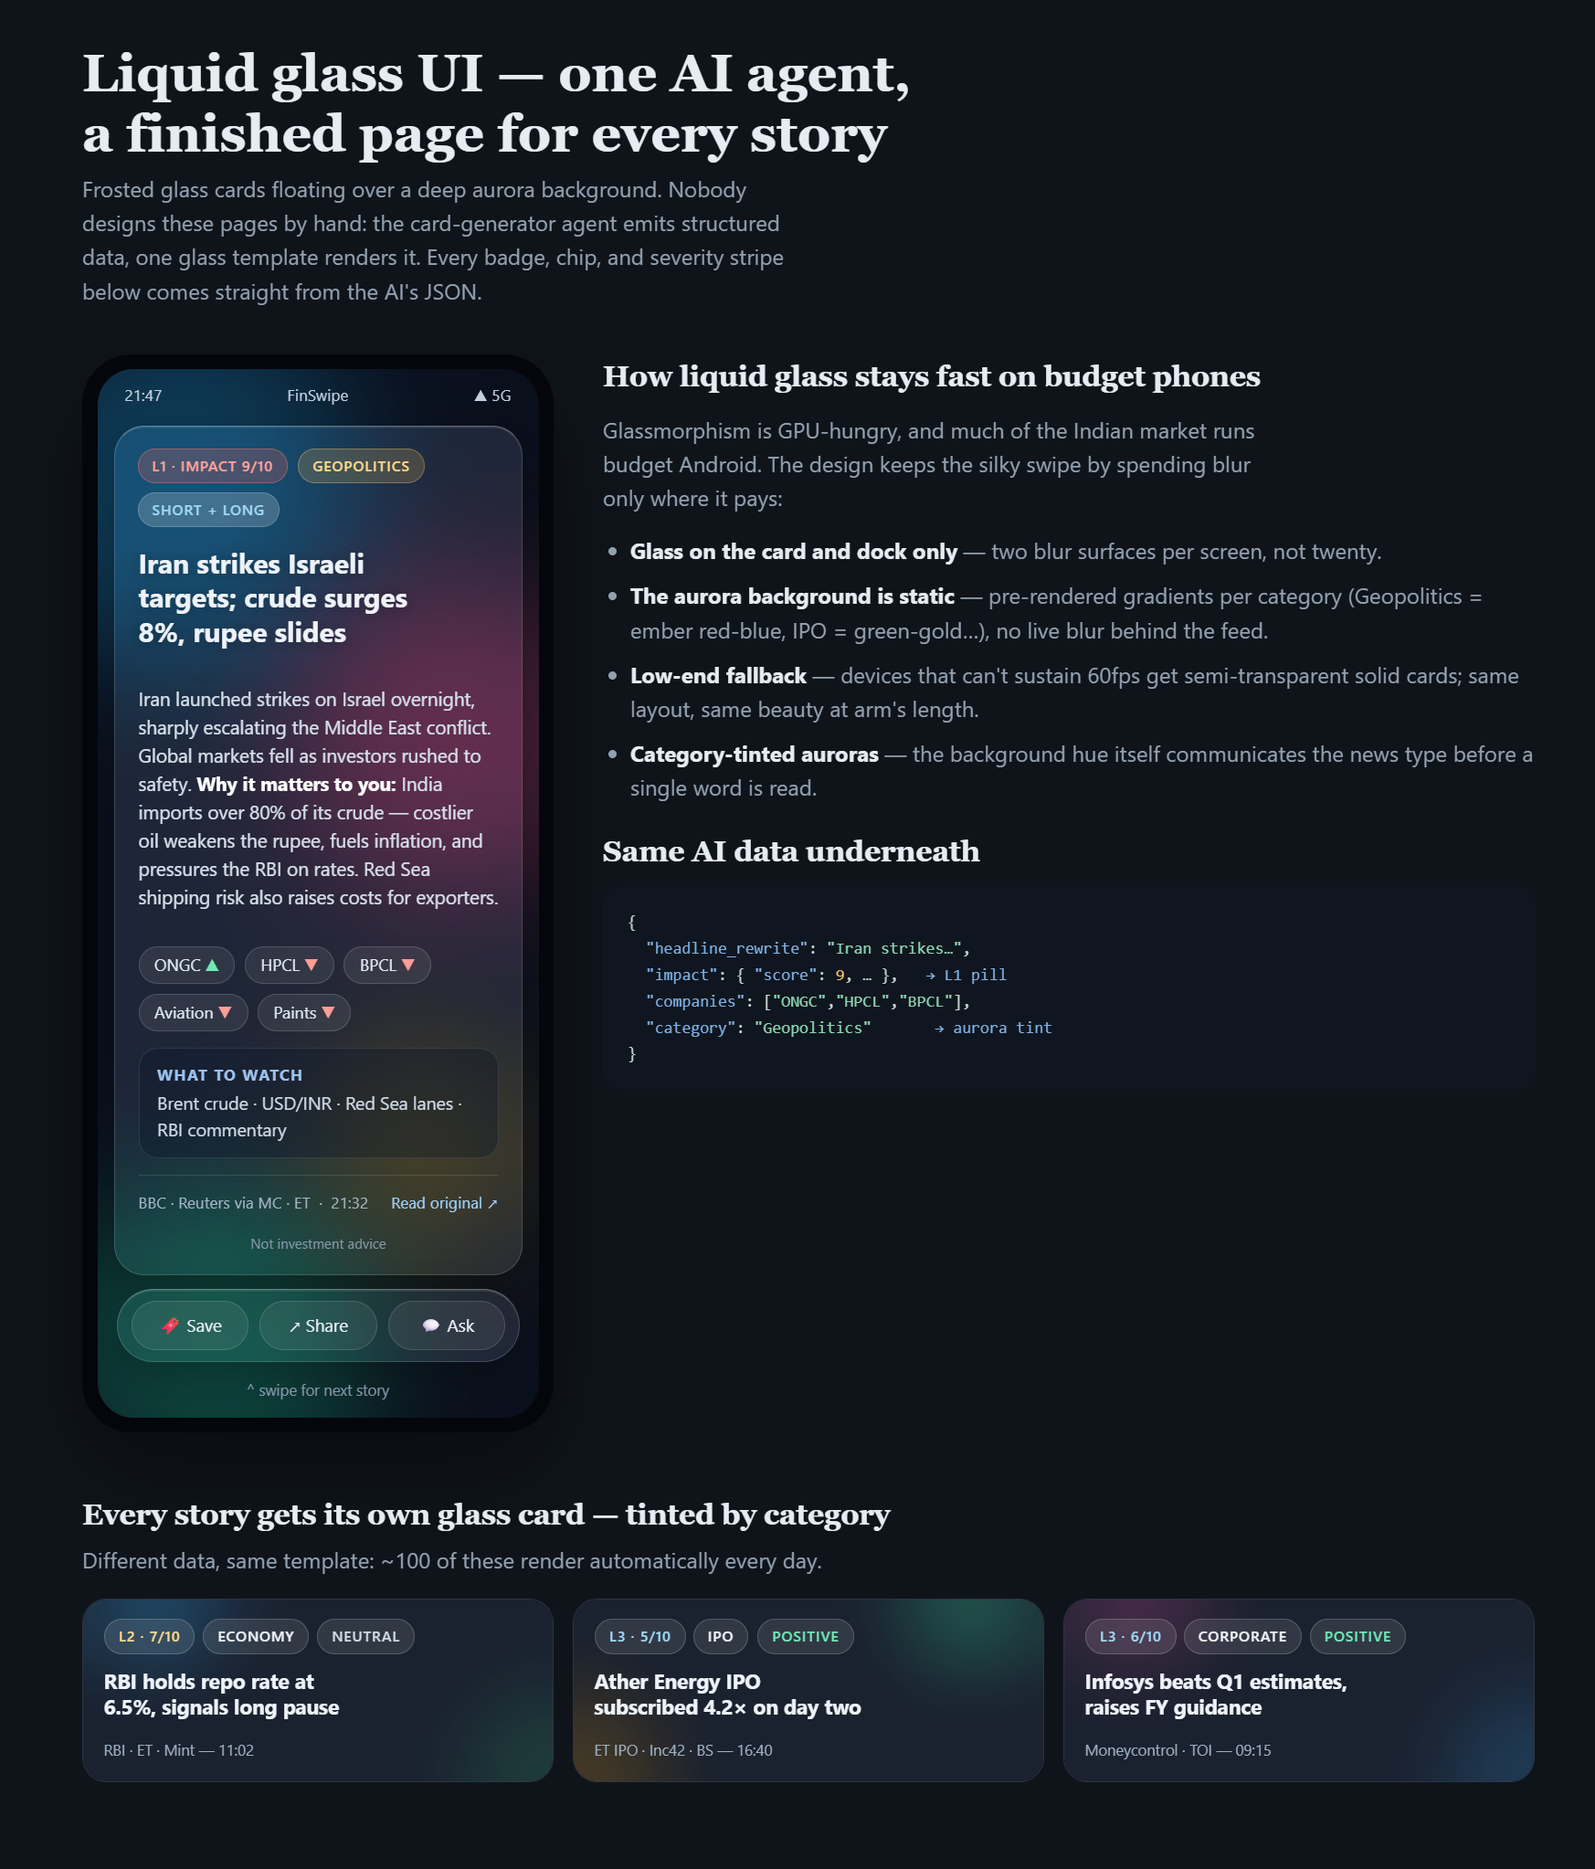
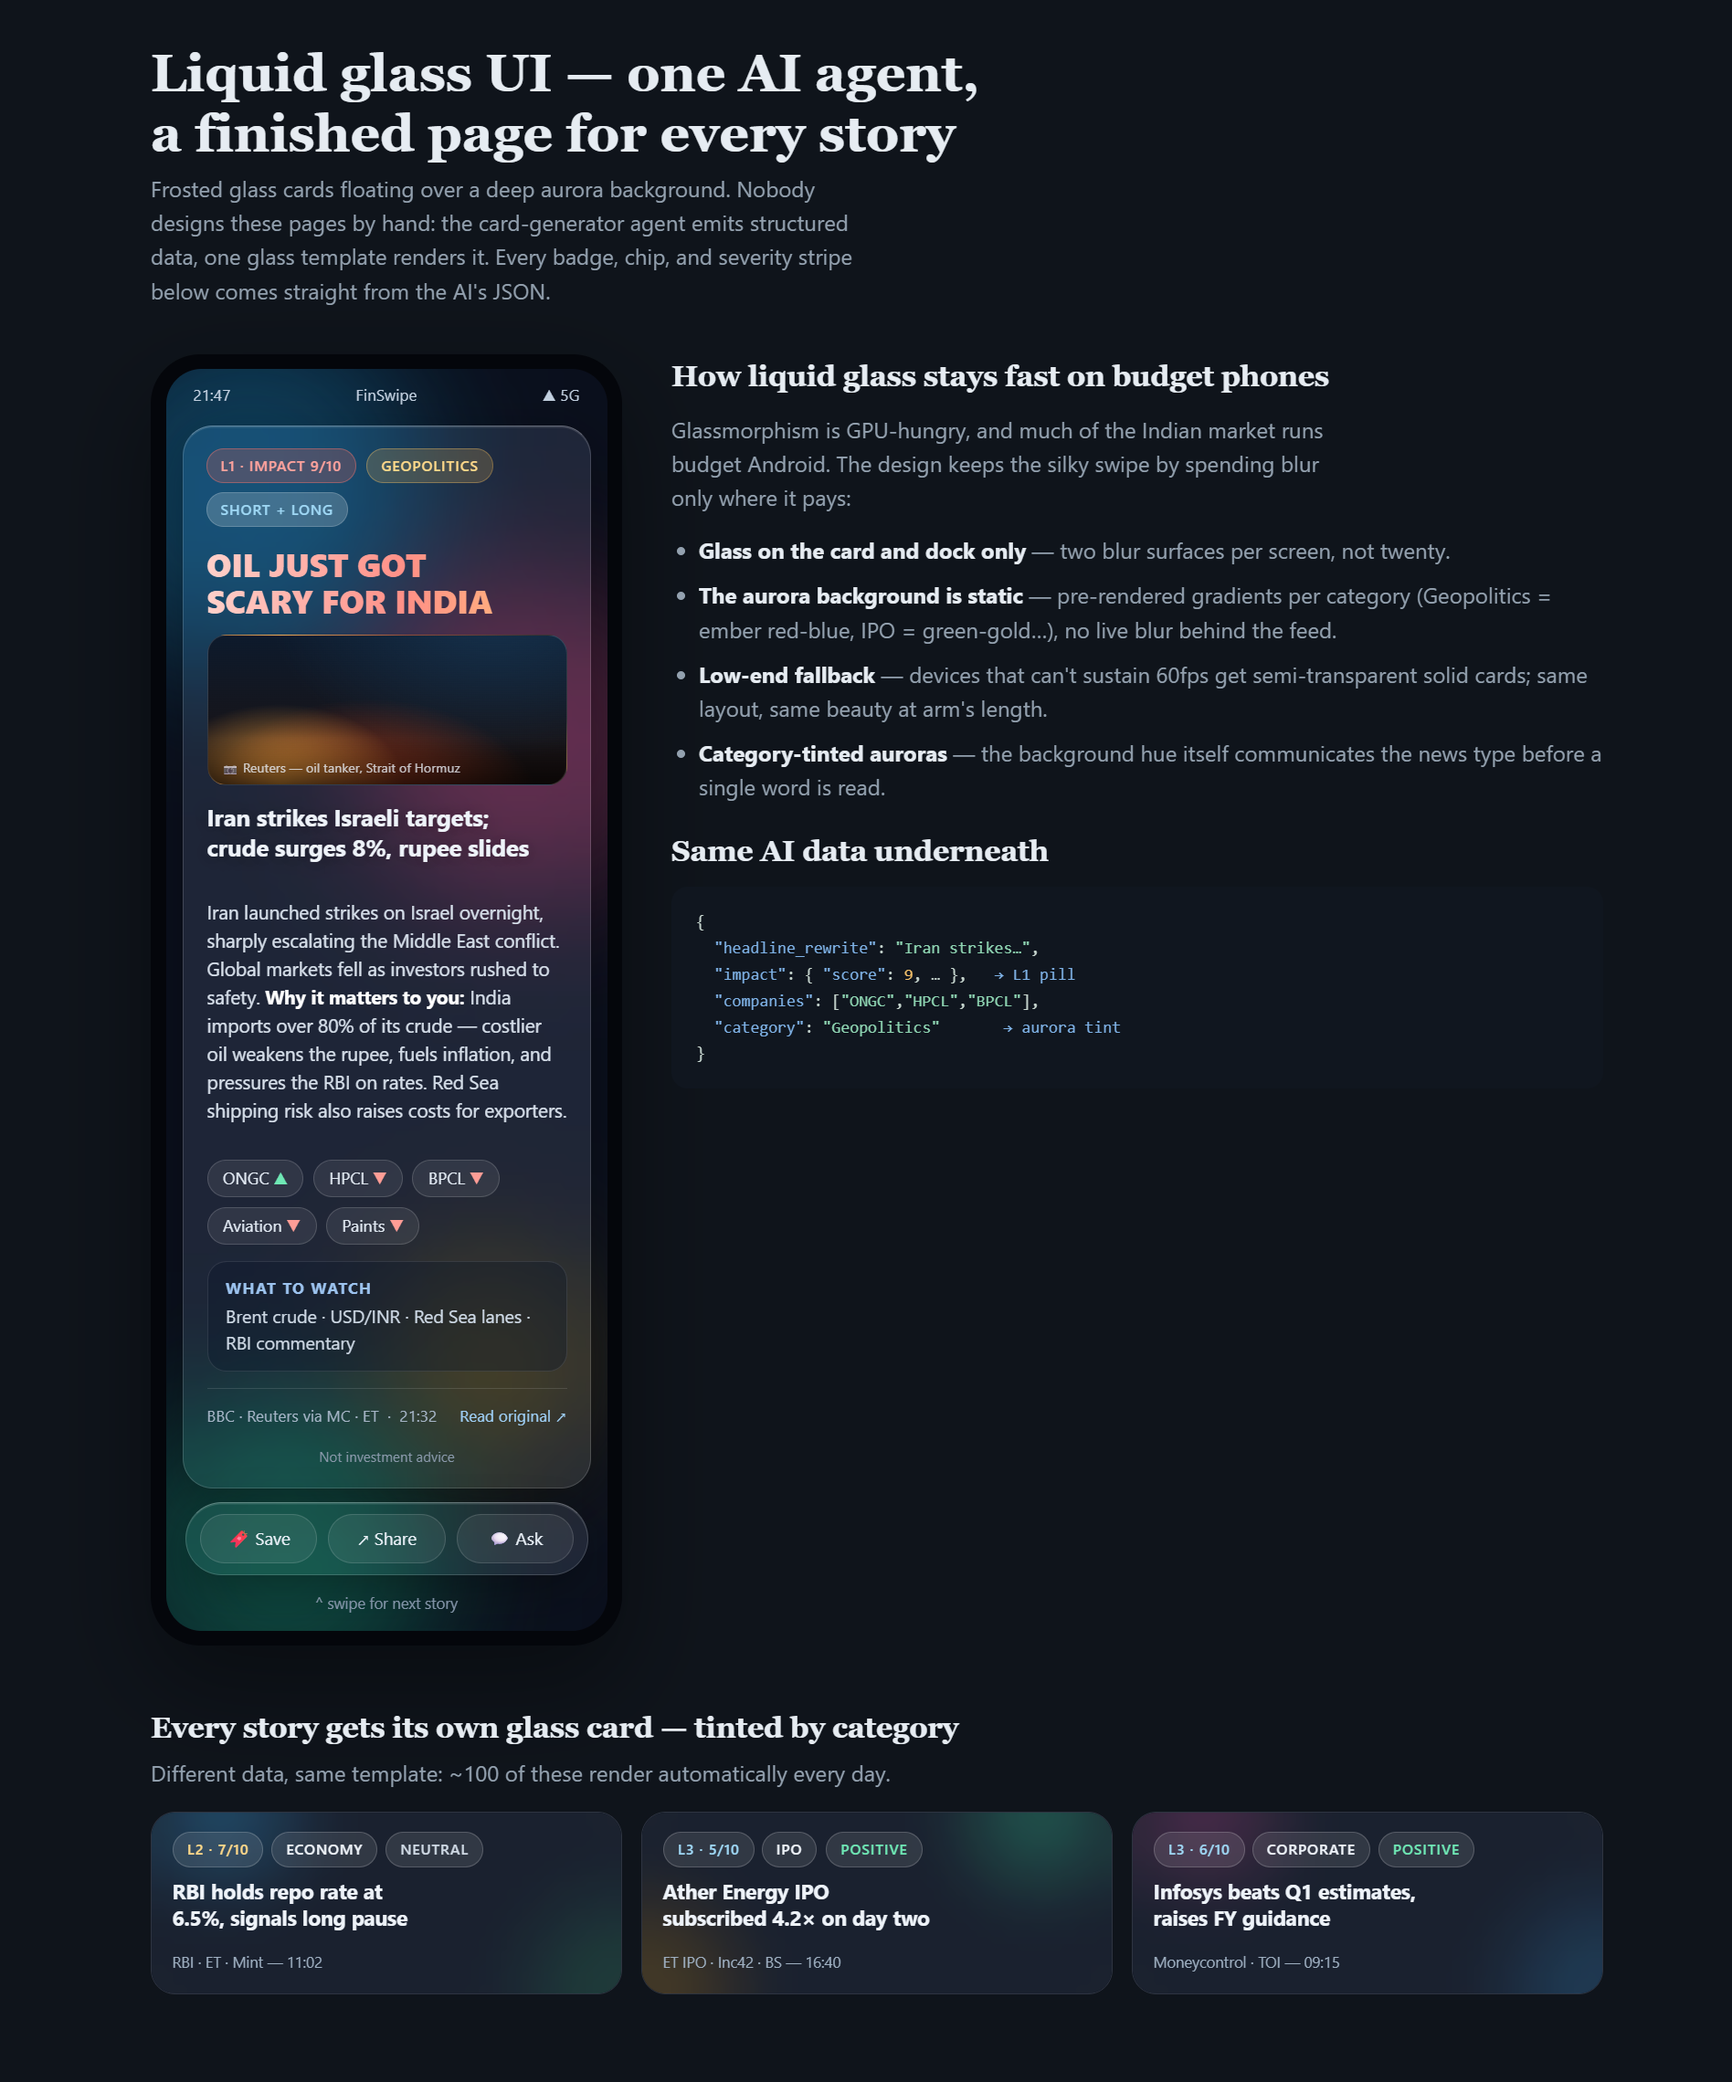
Add billboard hook + story images to card design
- Spec: three-level card read (hook -> headline -> summary); og:image
  with attribution, category aurora as fallback visual
- Plan: hook field through models/prompt/DB; enrichment now also
  extracts og:image; anti-clickbait rule in the AI prompt
- Mockup: hook line + photo block rendered

diff --git a/docs/mockups/finswipe-card-mockup.html b/docs/mockups/finswipe-card-mockup.html
@@ -43,7 +43,16 @@
   .p-cat{color:#ffd98a; border-color:rgba(255,200,100,.35); background:rgba(160,110,20,.20)}
   .p-neg{color:#ffa39d}
   .p-horizon{color:#9fd8f5}
-  .headline{font-size:20px; font-weight:700; line-height:1.25; margin:2px 0 0; text-wrap:balance; text-shadow:0 1px 12px rgba(0,0,0,.35)}
+  .hook{font-size:24px; font-weight:800; line-height:1.1; letter-spacing:-.01em; text-transform:uppercase; margin:2px 0 0;
+        background:linear-gradient(92deg,#ffd1cb,#ff8f86 55%,#ffc37a); -webkit-background-clip:text; background-clip:text; color:transparent; text-wrap:balance}
+  .photo{position:relative; border-radius:14px; height:110px; overflow:hidden; border:1px solid rgba(255,255,255,.14);
+         background:radial-gradient(140px 90px at 20% 100%, #f2a03d, transparent 65%),
+                    radial-gradient(180px 120px at 45% 120%, #b5401f, transparent 70%),
+                    radial-gradient(220px 150px at 80% -20%, #16324d, transparent 75%),
+                    linear-gradient(180deg,#0d1a2c,#1c1210)}
+  .photo::after{content:"📷 Reuters — oil tanker, Strait of Hormuz"; position:absolute; left:0; right:0; bottom:0;
+                font-size:9.5px; color:#e8edf5cc; padding:14px 10px 5px; background:linear-gradient(transparent,rgba(0,0,0,.65))}
+  .headline{font-size:17px; font-weight:700; line-height:1.3; margin:0; text-wrap:balance; text-shadow:0 1px 12px rgba(0,0,0,.35)}
   .summary{color:#d7e0eb; font-size:13.8px}
   .summary b{color:#fff}
   .chips{display:flex; flex-wrap:wrap; gap:7px}
@@ -105,6 +114,8 @@
               <span class="pill p-cat">Geopolitics</span>
               <span class="pill p-horizon">Short + Long</span>
             </div>
+            <div class="hook">Oil just got scary for India</div>
+            <div class="photo"></div>
             <div class="headline">Iran strikes Israeli targets; crude surges 8%, rupee slides</div>
             <p class="summary">Iran launched strikes on Israel overnight, sharply escalating the Middle East conflict. Global markets fell as investors rushed to safety. <b>Why it matters to you:</b> India imports over 80% of its crude — costlier oil weakens the rupee, fuels inflation, and pressures the RBI on rates. Red Sea shipping risk also raises costs for exporters.</p>
             <div class="chips">

diff --git a/docs/superpowers/plans/2026-07-25-m1-news-pipeline.md b/docs/superpowers/plans/2026-07-25-m1-news-pipeline.md
@@ -101,6 +101,7 @@ create table stories (
   url              text not null,
   url_hash         text not null unique,
   cluster_id       uuid not null,
+  hook             text,               -- billboard line, <=8 words, factual
   headline         text not null,
   summary          text,
   impact_direction text check (impact_direction in ('positive','negative','mixed','neutral')),
@@ -331,6 +332,7 @@ from finswipe.models import StoryCard, Impact, CompanyRef, FeedItem
 
 def valid_card_dict():
     return {
+        "hook": "RBI stands still, markets exhale",
         "headline_rewrite": "RBI holds repo rate at 6.5%",
         "summary": "What happened... why... who is affected... why you should care.",
         "impact": {"direction": "neutral", "strength": 2, "horizon": "short_term", "score": 6},
@@ -404,6 +406,7 @@ class Impact(BaseModel):
 
 
 class StoryCard(BaseModel):
+    hook: str
     headline_rewrite: str
     summary: str
     impact: Impact
@@ -728,8 +731,8 @@ git commit -m "feat: url hashing and title-similarity clustering"
 **Interfaces:**
 - Consumes: `FeedItem` (Task 2), `settings` (Task 1).
 - Produces:
-  - `needs_enrichment(item: FeedItem) -> bool` — True when `len(item.summary) < 300` and URL is not a Google News redirect (`news.google.com` links block scraping — skip those).
-  - `enrich(item: FeedItem) -> FeedItem` — returns a copy with `summary` replaced by extracted article text (capped at 4000 chars) when extraction succeeds; original item unchanged on any failure. Never raises.
+  - `needs_enrichment(item: FeedItem) -> bool` — True when the summary is thin (`< 300` chars) **or** the item has no image, unless the URL is a Google News redirect (`news.google.com` blocks scraping — skip those).
+  - `enrich(item: FeedItem) -> FeedItem` — fetches the article page once; returns a copy with `summary` replaced by extracted text (capped 4000 chars) when longer, and `image_url` filled from the page's `og:image` meta tag when the item had none. Original item unchanged on any failure. Never raises.
 
 - [ ] **Step 1: Write the failing tests**
 
@@ -737,19 +740,25 @@ git commit -m "feat: url hashing and title-similarity clustering"
 ```python
 from unittest.mock import patch
 
-from finswipe.extract import needs_enrichment, enrich
+from finswipe.extract import needs_enrichment, enrich, _og_image
 from finswipe.models import FeedItem
 
 
-def make_item(summary: str, url: str = "https://example.com/story") -> FeedItem:
-    return FeedItem(source_id=1, source_name="ET", title="T", url=url, summary=summary)
+def make_item(summary: str, url: str = "https://example.com/story",
+              image_url: str | None = "https://example.com/i.jpg") -> FeedItem:
+    return FeedItem(source_id=1, source_name="ET", title="T", url=url,
+                    summary=summary, image_url=image_url)
 
 
 def test_needs_enrichment_when_summary_thin():
     assert needs_enrichment(make_item("short")) is True
 
 
-def test_no_enrichment_when_summary_rich():
+def test_needs_enrichment_when_image_missing():
+    assert needs_enrichment(make_item("x" * 400, image_url=None)) is True
+
+
+def test_no_enrichment_when_rich_and_has_image():
     assert needs_enrichment(make_item("x" * 400)) is False
 
 
@@ -758,17 +767,26 @@ def test_no_enrichment_for_google_news_links():
     assert needs_enrichment(item) is False
 
 
-def test_enrich_replaces_summary_on_success():
-    item = make_item("short")
-    with patch("finswipe.extract._download_and_extract", return_value="Full article text " * 30):
+def test_og_image_extracts_meta_tag():
+    html = '<head><meta property="og:image" content="https://cdn.example.com/pic.jpg" /></head>'
+    assert _og_image(html) == "https://cdn.example.com/pic.jpg"
+    assert _og_image("<head></head>") is None
+
+
+def test_enrich_fills_summary_and_image():
+    item = make_item("short", image_url=None)
+    html = '<meta property="og:image" content="https://cdn.example.com/pic.jpg">'
+    with patch("finswipe.extract._download", return_value=html), \
+         patch("finswipe.extract.trafilatura") as t:
+        t.extract.return_value = "Full article text " * 30
         out = enrich(item)
     assert len(out.summary) > 300
-    assert out.title == item.title
+    assert out.image_url == "https://cdn.example.com/pic.jpg"
 
 
 def test_enrich_keeps_original_on_failure():
     item = make_item("short")
-    with patch("finswipe.extract._download_and_extract", return_value=None):
+    with patch("finswipe.extract._download", return_value=None):
         out = enrich(item)
     assert out.summary == "short"
 ```
@@ -782,6 +800,7 @@ Run: `pytest tests/test_extract.py -v` — Expected: FAIL (no module)
 `pipeline/src/finswipe/extract.py`:
 ```python
 import logging
+import re
 
 import httpx
 import trafilatura
@@ -792,30 +811,50 @@ from finswipe.models import FeedItem
 log = logging.getLogger(__name__)
 MIN_RICH_SUMMARY = 300
 MAX_TEXT_CHARS = 4000
+_OG_IMAGE_RE = re.compile(
+    r'<meta[^>]+property=["\']og:image["\'][^>]+content=["\']([^"\']+)["\']', re.I)
+_OG_IMAGE_RE_REV = re.compile(
+    r'<meta[^>]+content=["\']([^"\']+)["\'][^>]+property=["\']og:image["\']', re.I)
 
 
 def needs_enrichment(item: FeedItem) -> bool:
     if "news.google.com" in item.url:
         return False
-    return len(item.summary) < MIN_RICH_SUMMARY
+    return len(item.summary) < MIN_RICH_SUMMARY or not item.image_url
 
 
-def _download_and_extract(url: str) -> str | None:
+def _download(url: str) -> str | None:
     try:
         resp = httpx.get(url, headers={"User-Agent": settings.user_agent},
                          timeout=settings.fetch_timeout, follow_redirects=True)
         resp.raise_for_status()
-        return trafilatura.extract(resp.text, include_comments=False)
+        return resp.text
     except Exception as exc:
-        log.info("article extraction failed for %s: %s", url, exc)
+        log.info("article download failed for %s: %s", url, exc)
         return None
 
 
+def _og_image(html: str) -> str | None:
+    m = _OG_IMAGE_RE.search(html) or _OG_IMAGE_RE_REV.search(html)
+    return m.group(1) if m else None
+
+
 def enrich(item: FeedItem) -> FeedItem:
-    text = _download_and_extract(item.url)
+    html = _download(item.url)
+    if not html:
+        return item
+    updates = {}
+    try:
+        text = trafilatura.extract(html, include_comments=False)
+    except Exception:
+        text = None
     if text and len(text) > len(item.summary):
-        return item.model_copy(update={"summary": text[:MAX_TEXT_CHARS]})
-    return item
+        updates["summary"] = text[:MAX_TEXT_CHARS]
+    if not item.image_url:
+        img = _og_image(html)
+        if img:
+            updates["image_url"] = img
+    return item.model_copy(update=updates) if updates else item
 ```
 
 - [ ] **Step 4: Run tests to verify they pass**
@@ -864,6 +903,7 @@ def make_item() -> FeedItem:
 
 def make_card() -> StoryCard:
     return StoryCard.model_validate({
+        "hook": "RBI stands still",
         "headline_rewrite": "RBI holds repo rate at 6.5%",
         "summary": "s", 
         "impact": {"direction": "neutral", "strength": 1, "horizon": "short_term", "score": 5},
@@ -947,6 +987,7 @@ class Database:
             "url": item.url,
             "url_hash": url_hash(item.url),
             "cluster_id": cluster_id,
+            "hook": card.hook,
             "headline": card.headline_rewrite,
             "summary": card.summary,
             "impact_direction": card.impact.direction,
@@ -1099,6 +1140,7 @@ def make_item() -> FeedItem:
 
 def card_json(symbol="HDFCBANK", relevant=True, category="Economy", score=6) -> str:
     return json.dumps({
+        "hook": "RBI stands still, markets exhale",
         "headline_rewrite": "RBI holds repo rate at 6.5%",
         "summary": "s",
         "impact": {"direction": "neutral", "strength": 1, "horizon": "short_term", "score": score},
@@ -1185,6 +1227,9 @@ Rules — follow every one:
   who is affected, and why the reader should care.
 - NEVER give buy/sell/hold advice or price targets. Describe impact and what to
   watch — never what to do. This is a legal requirement.
+- "hook": a billboard line, 8 words max, that makes someone stop scrolling —
+  punchy, concrete, and STRICTLY factual. Good: "Oil just got scary for India".
+  Bad (never do): curiosity-gap clickbait like "You won't believe what happened".
 - Only mention companies actually central to the story. Use official NSE symbols
   when you are certain; otherwise set nse_symbol to null.
 - If facts are thin or the article is vague, set confidence to "medium" or "low".
@@ -1193,6 +1238,7 @@ Rules — follow every one:
 
 JSON schema (all fields required):
 {
+  "hook": "string, 8 words max",
   "headline_rewrite": "string",
   "summary": "string",
   "impact": {"direction": "positive|negative|mixed|neutral", "strength": 1-3,

diff --git a/docs/superpowers/specs/2026-07-25-finswipe-blueprint-design.md b/docs/superpowers/specs/2026-07-25-finswipe-blueprint-design.md
@@ -38,7 +38,7 @@ Not downloads. Not time-in-app. Supporting signals (PostHog free tier): time fro
 | Feature | Description |
 |---|---|
 | **Swipe feed** | Vertical, Reels-style. One swipe = one story, fully understood in seconds. |
-| **Smart news card** | Single card, no tabs: headline · concise AI summary (what/why/who/why-care) · expected impact (positive/negative + strength) · **short-term vs long-term flag** · affected sectors & stocks (tappable) · source name + link to original. Written plainly enough for beginners, precise enough for traders. |
+| **Smart news card** | Single card, no tabs, read as a billboard in three levels: **hook** (AI-written, ≤8 words, arresting but strictly factual — never clickbait) · **story image** (article's own og:image preview with attribution; category-tinted aurora as the fallback visual — no empty image boxes) · headline · concise AI summary (what/why/who/why-care) · expected impact (positive/negative + strength) · **short-term vs long-term flag** · affected sectors & stocks (tappable) · source name + link to original. Written plainly enough for beginners, precise enough for traders. |
 | **Q&A search** | Ask "Why is NIFTY falling today?" → sourced AI explanation. Two-tier: our stories first, whitelisted-web fallback. Suggested follow-up questions. |
 | **Smart alerts** | Push notifications only for significant market-moving events; instant, machine-gated, personalized to follows. |
 | **Basic stock page** | Current price (delayed) · lightweight chart · recent related news · a few key metrics. Deliberately NOT competing with Screener/TradingView. |
@@ -202,6 +202,7 @@ Key decisions:
 
 ```json
 {
+  "hook": "billboard line, <=8 words, arresting but strictly factual",
   "headline_rewrite": "original wording, plain language",
   "summary": "what happened / why / who is affected / why you should care",
   "impact": {
